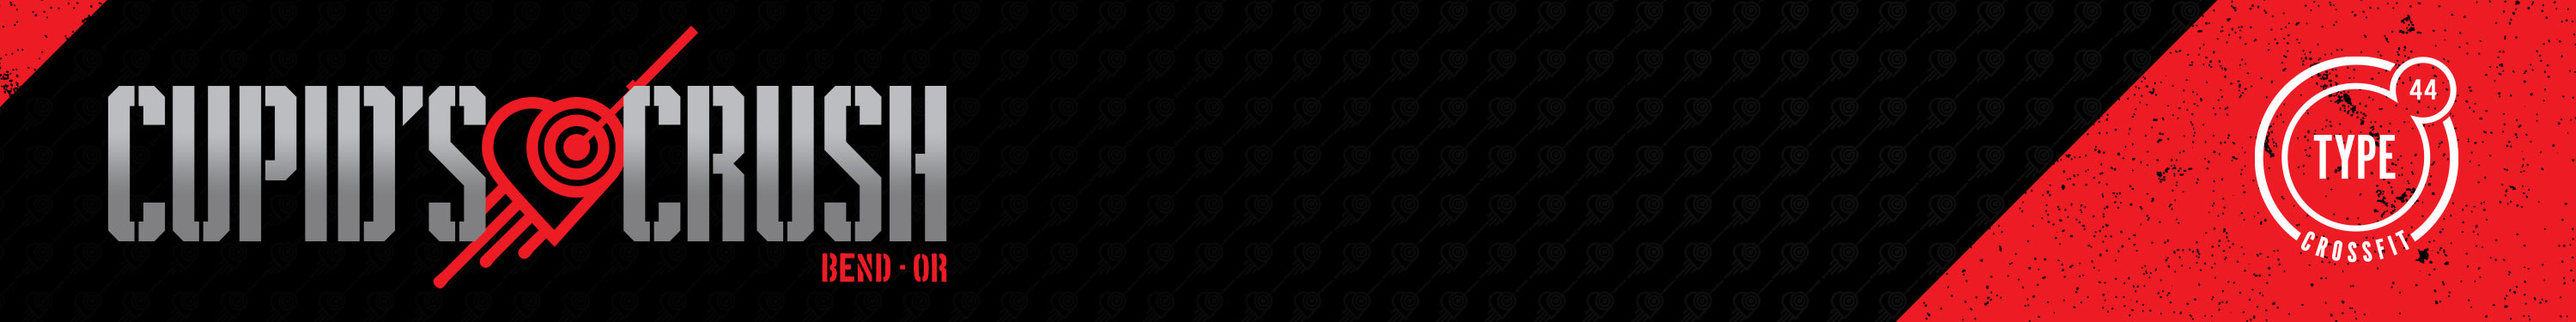
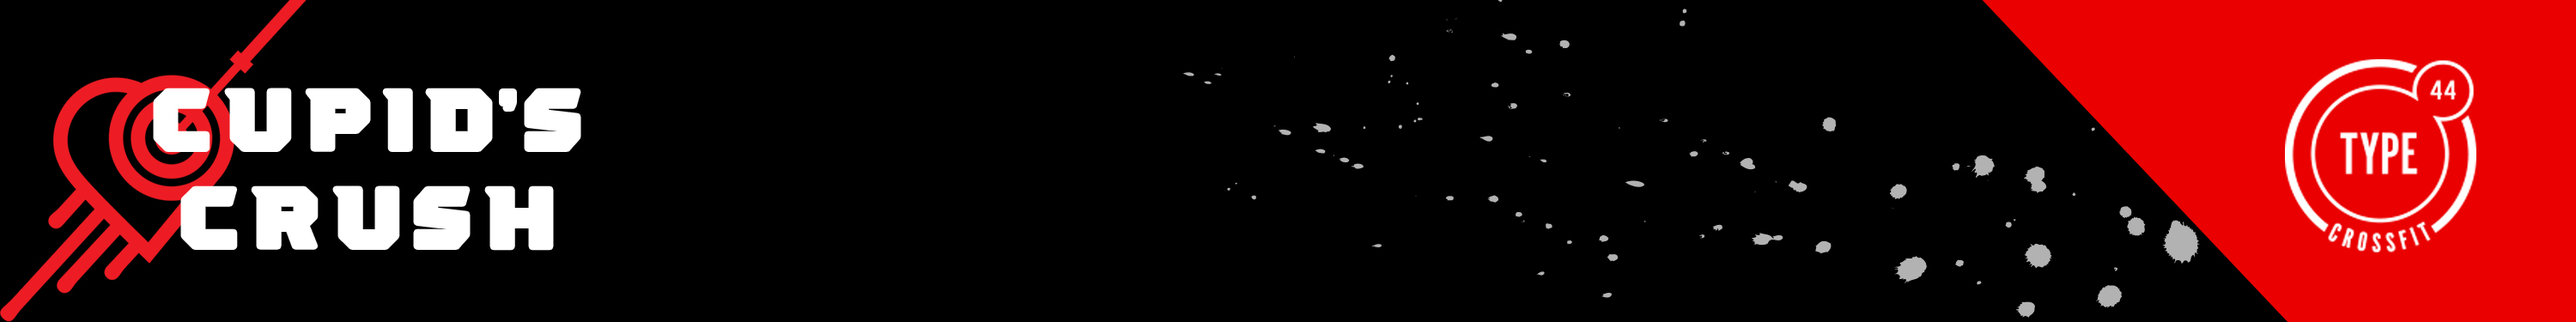
Updating header img

diff --git a/deschutesDemoScores/templates/scoring/finalResults.html b/deschutesDemoScores/templates/scoring/finalResults.html
@@ -17,7 +17,7 @@
 <div class="jumbotron">
   <div align="center">
   <a href="/">
-  <img src="{% static "scoring/cupidsCrush.jpeg" %}"/>
+  <img src="{% static "scoring/cc-header_2023.jpeg" %}" width=1600px height=200px/>
   </a>
   </div>
 </div>

diff --git a/deschutesDemoScores/templates/scoring/index.html b/deschutesDemoScores/templates/scoring/index.html
@@ -17,7 +17,7 @@
 <div class="jumbotron">
   <div align="center">
   <a href="/">
-  <img src="{% static "scoring/cupidsCrush.jpeg" %}"/>
+  <img src="{% static "scoring/cc-header_2023.jpeg" %}" width=1600px height=200px/>
   </a>
   </div>
 </div>

diff --git a/deschutesDemoScores/templates/scoring/scoreInput.html b/deschutesDemoScores/templates/scoring/scoreInput.html
@@ -17,7 +17,7 @@
 <div class="jumbotron">
   <div align="center">
   <a href="/">
-  <img src="{% static "scoring/cupidsCrush.jpeg" %}"/>
+  <img src="{% static "scoring/cc-header_2023.jpeg" %}" width=1600px height=200px/>
   </a>
   </div>
 </div>

diff --git a/deschutesDemoScores/templates/scoring/scoreInputReceived.html b/deschutesDemoScores/templates/scoring/scoreInputReceived.html
@@ -18,7 +18,7 @@
 <div class="jumbotron">
   <div align="center">
   <a href="/">
-  <img src="{% static "scoring/cupidsCrush.jpeg" %}"/>
+  <img src="{% static "scoring/cc-header_2023.jpeg" %}" width=1600px height=200px/>
   </a>
   </div>
 </div>

diff --git a/deschutesDemoScores/templates/scoring/login.html b/deschutesDemoScores/templates/scoring/login.html
@@ -16,7 +16,7 @@
 
 <div class="jumbotron">
   <div align="center">
-  <img src="{% static "scoring/cupidsCrush.jpeg" %}"/>
+  <img src="{% static "scoring/cc-header_2023.jpeg" %}" width=1600px height=200px/>
   </div>
 </div>
 
